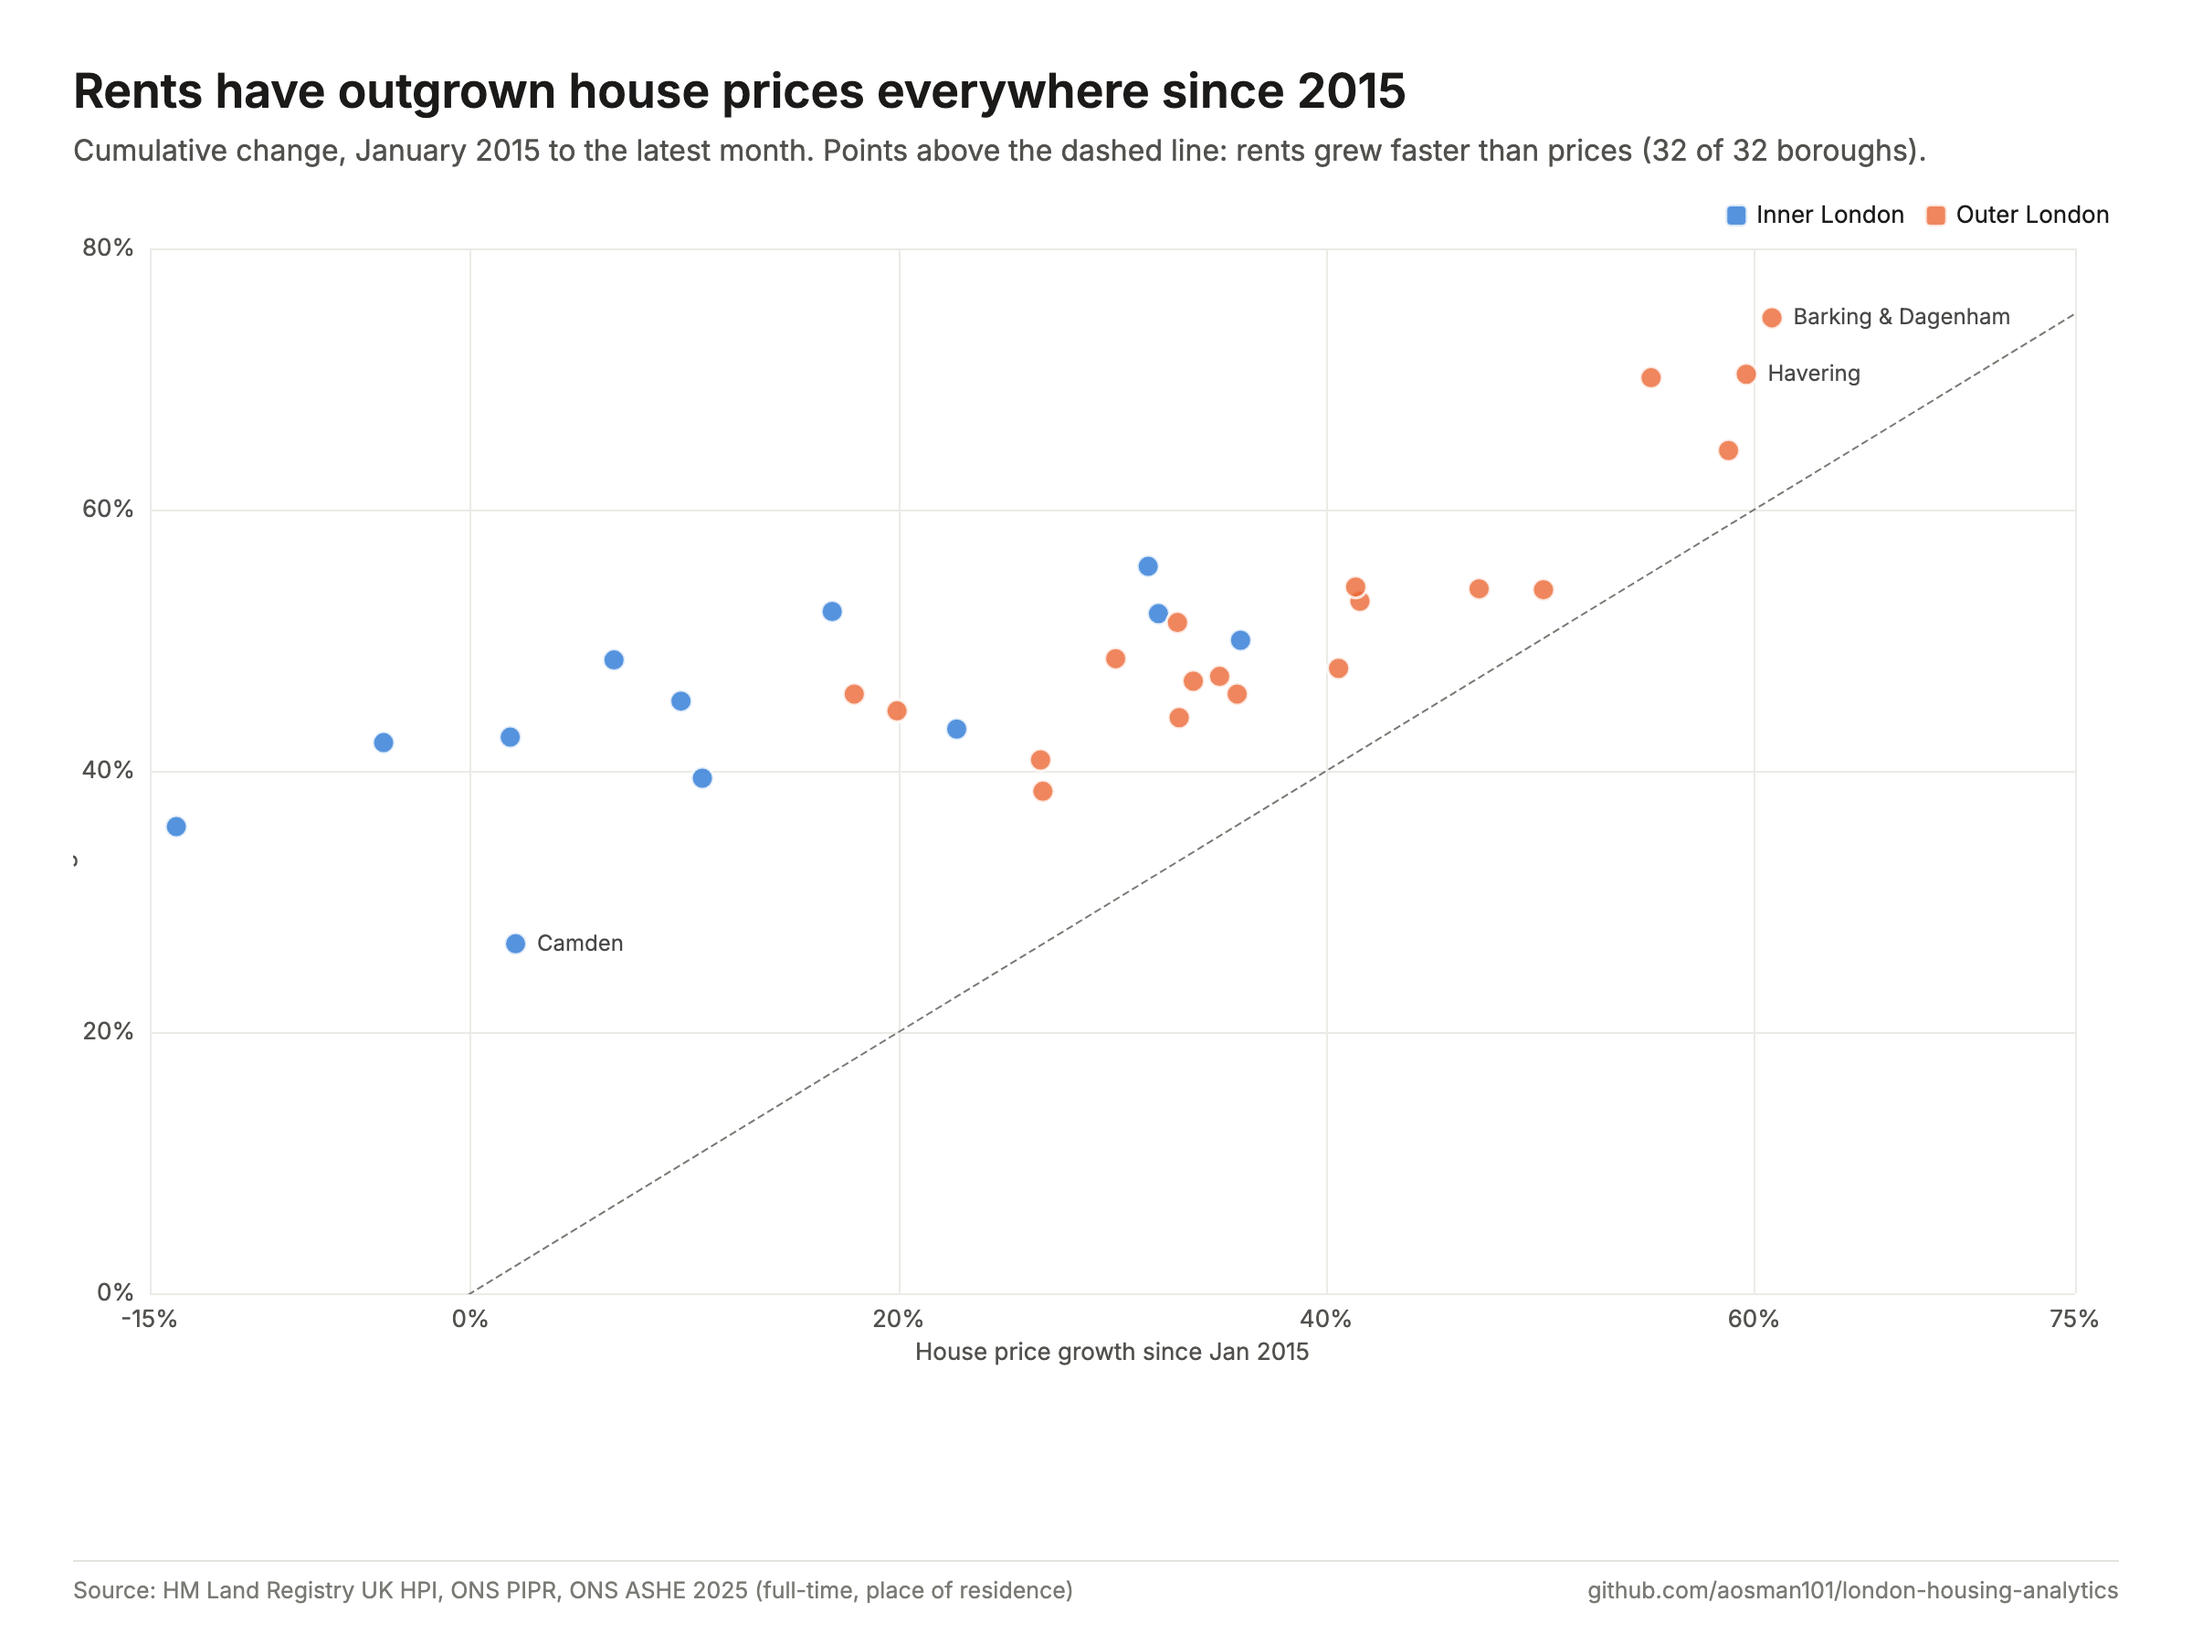
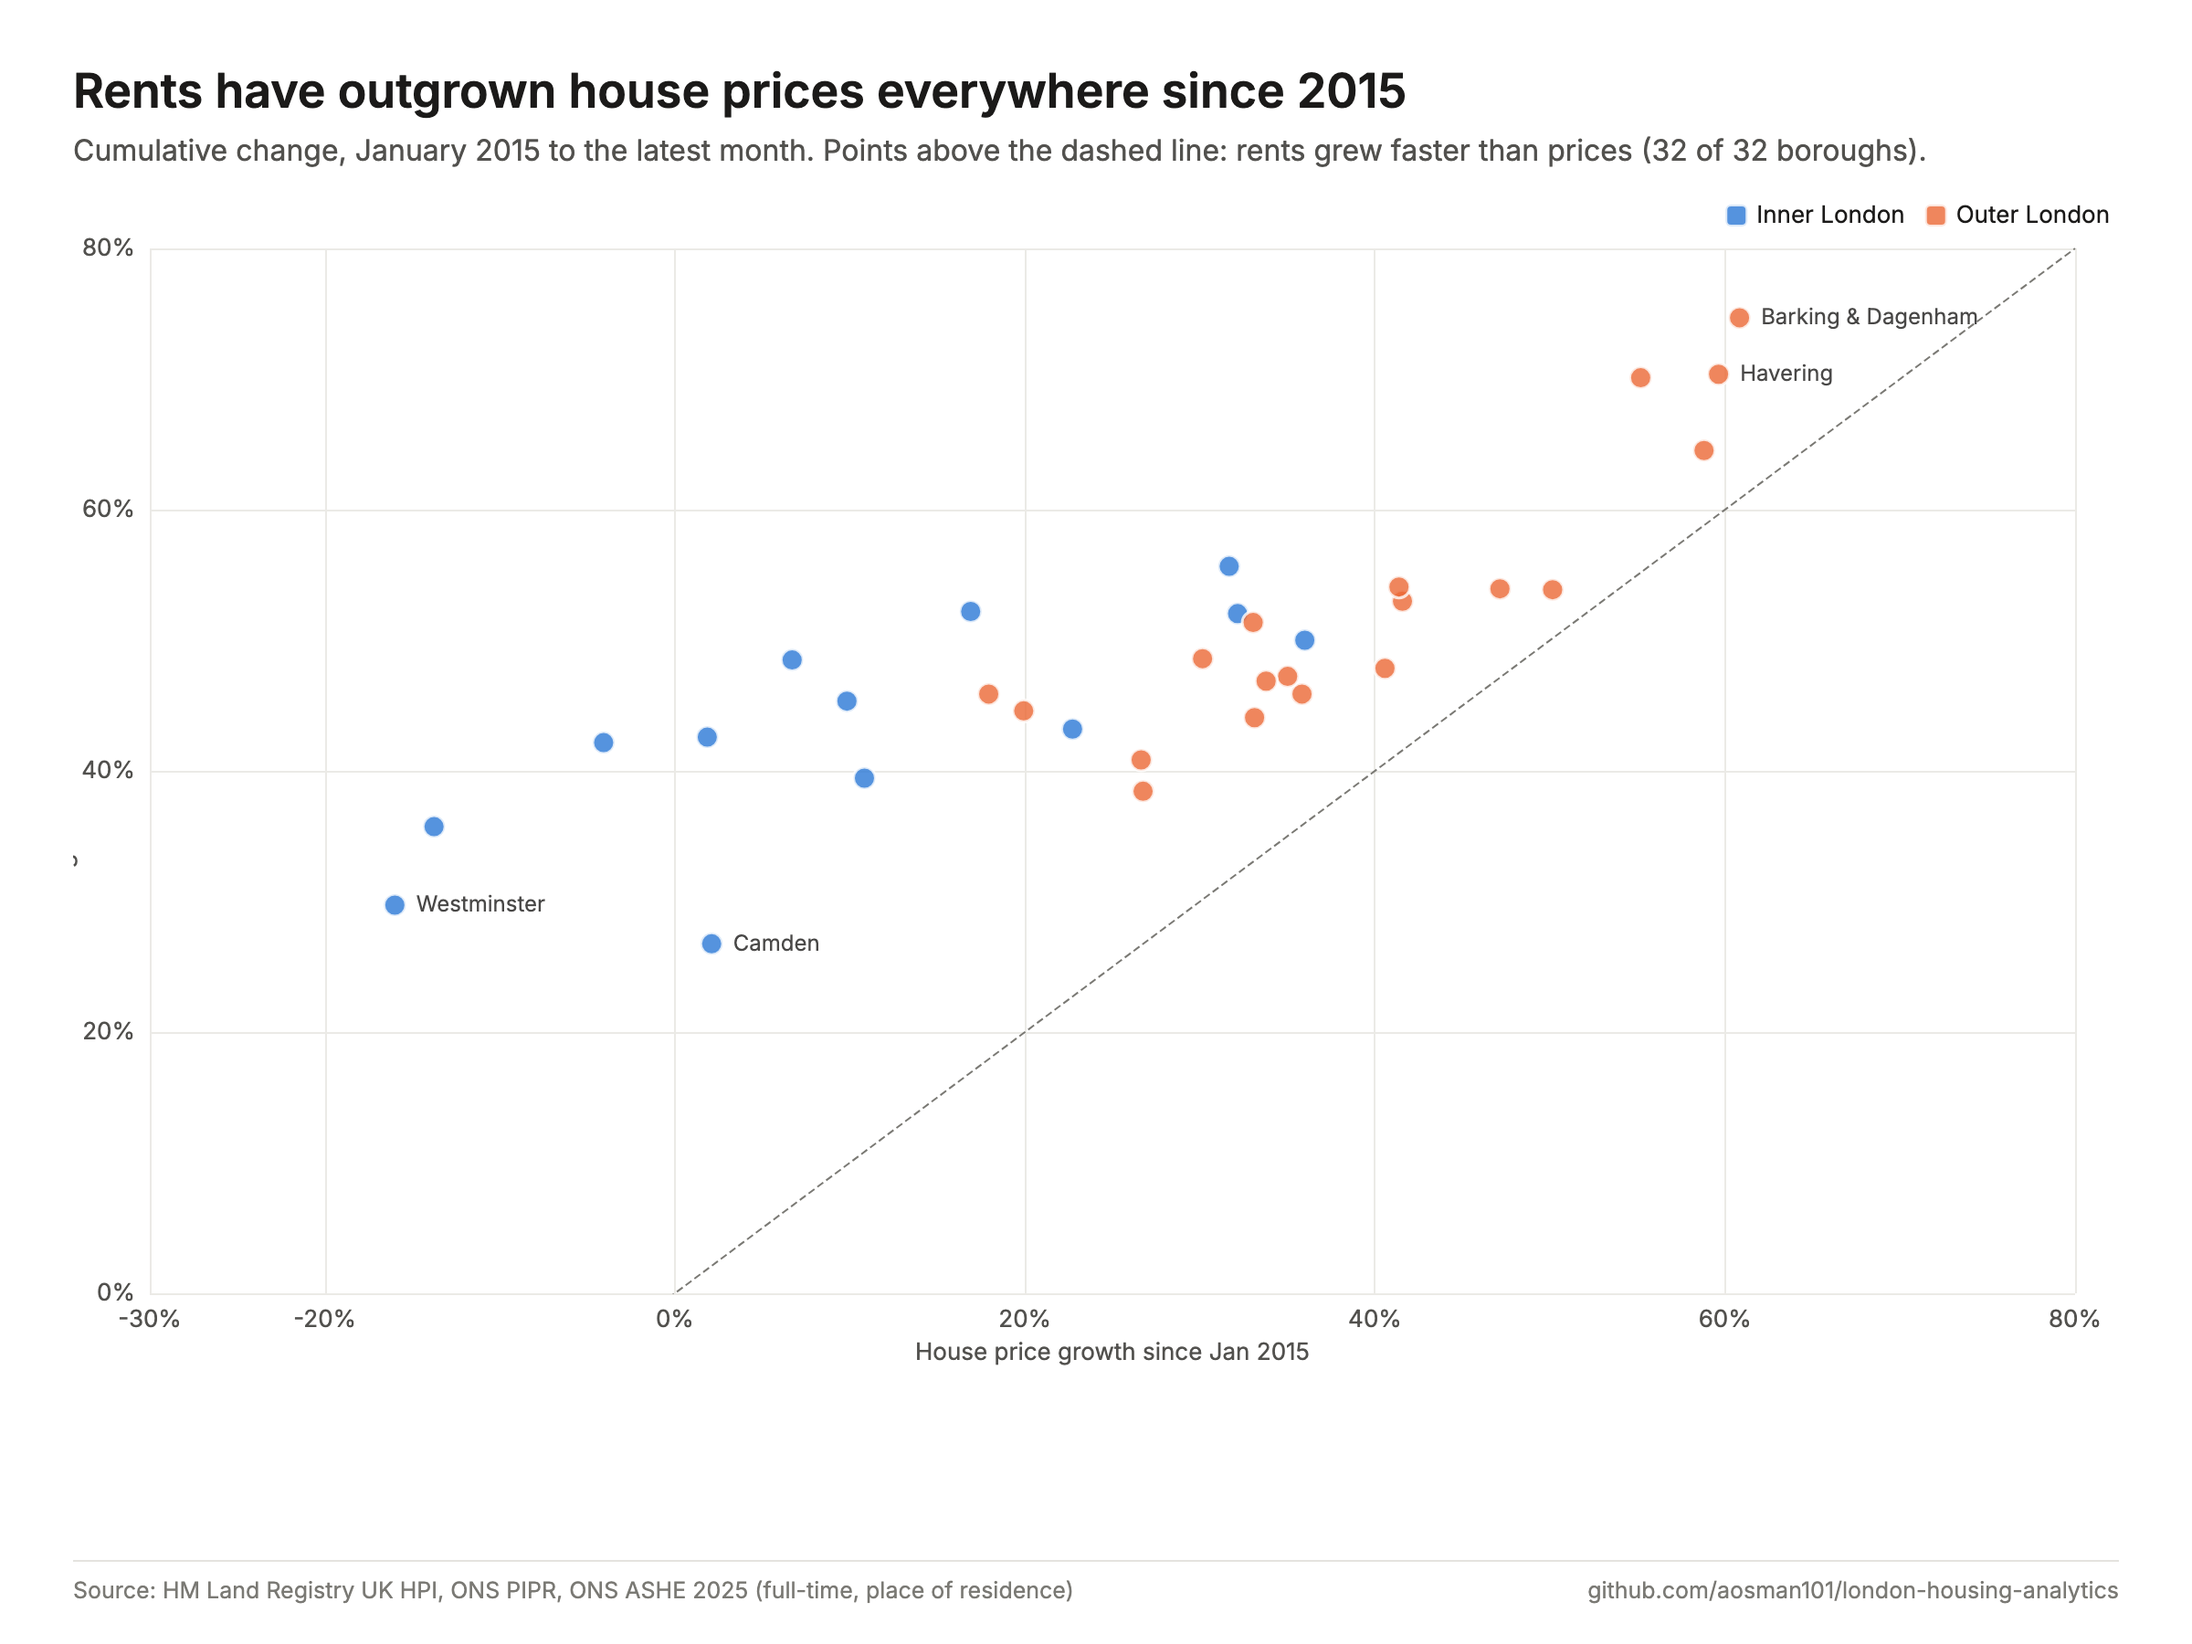
Update rent vs price growth visualization with dynamic y-axis scaling and replace outdated image

diff --git a/housing-analytics/dashboard/index.html b/housing-analytics/dashboard/index.html
@@ -407,14 +407,15 @@ V.rentvsprice = {
         label: { show: b.area_code === S.borough || rvpLabels.has(b.area_code),
                  formatter: () => short(b.area_name), position: 'right', color: C.ink, fontSize: fs() - 1 } })),
     }));
-    const lo = -15, hi = 75;
+    const px = rows.map(b => b.price_growth_since_2015_pct), rx = rows.map(b => b.rent_growth_since_2015_pct);
+    const lo = Math.floor((Math.min(...px, 0) - 5) / 10) * 10, hi = Math.ceil((Math.max(...px, ...rx) + 5) / 10) * 10;
     series.push({ type: 'line', data: [[lo, lo], [hi, hi]], showSymbol: false, silent: true, lineStyle: { color: C.ink3, type: 'dashed', width: 1 }, tooltip: { show: false } });
     return {
       textStyle: baseText(), animation: ANIM, legend: legend({ data: Object.keys(GROUP_C) }),
       grid: { left: 8, right: 24, top: 30, bottom: 30, containLabel: true },
       tooltip: tooltip({ trigger: 'item', formatter: p => p.data.code ? `<b>${byCode[p.data.code].area_name}</b><br>Rent ${F.spct(p.value[1], 0)} · Price ${F.spct(p.value[0], 0)}` : '' }),
       xAxis: valueAxis({ min: lo, max: hi, name: 'House price growth since Jan 2015', nameLocation: 'middle', nameGap: 26, axisLabel: { formatter: v => v + '%', color: C.ink2, fontSize: fs() } }),
-      yAxis: valueAxis({ min: 0, max: 80, name: 'Rent growth since Jan 2015', nameLocation: 'middle', nameGap: 40, axisLabel: { formatter: v => v + '%', color: C.ink2, fontSize: fs() } }),
+      yAxis: valueAxis({ min: 0, max: hi, name: 'Rent growth since Jan 2015', nameLocation: 'middle', nameGap: 40, axisLabel: { formatter: v => v + '%', color: C.ink2, fontSize: fs() } }),
       series,
     };
   },
